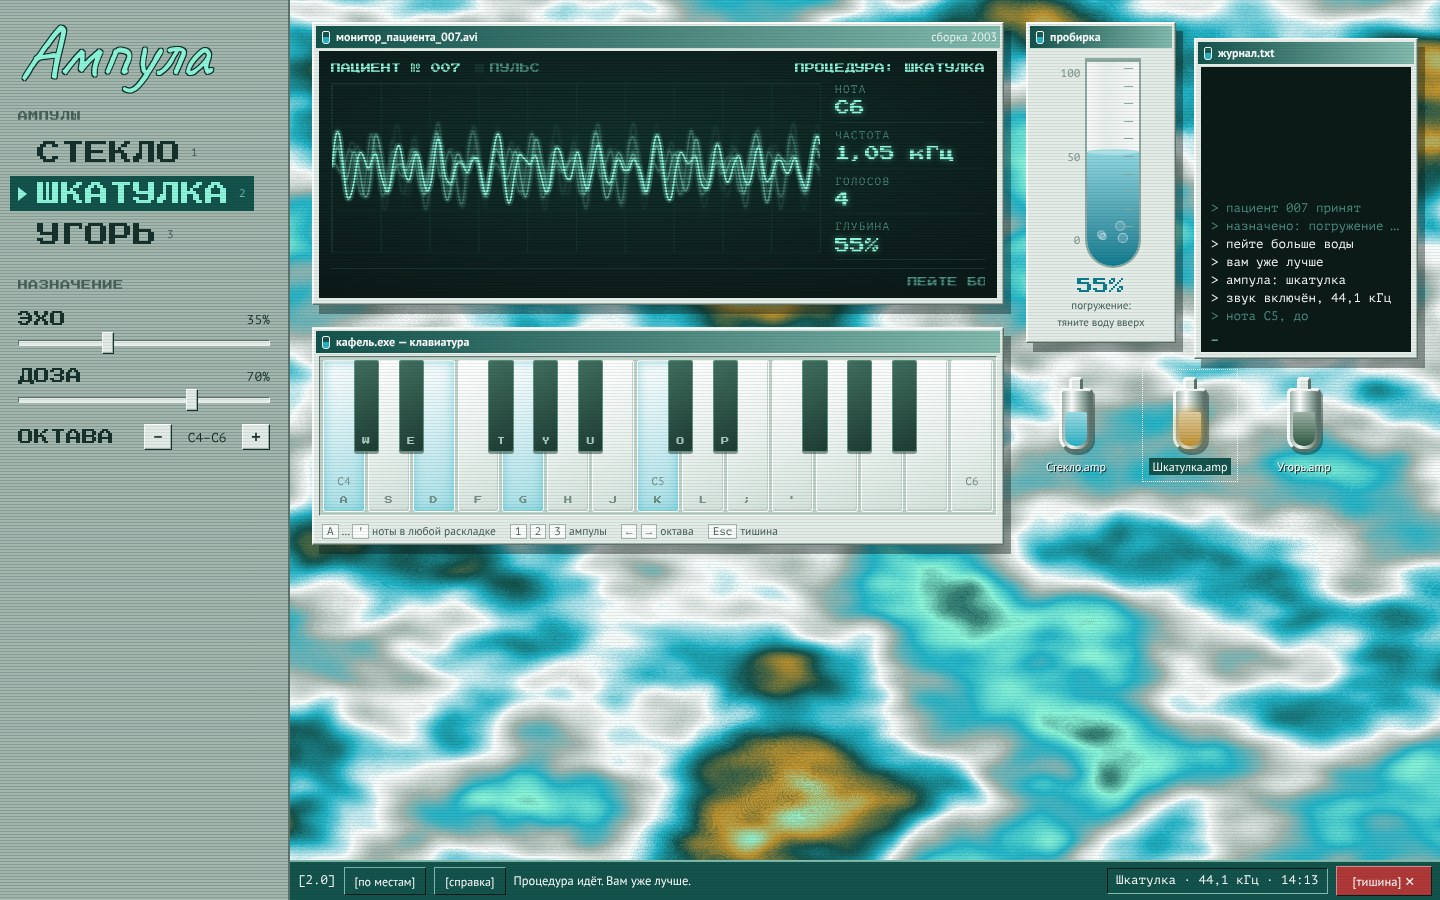
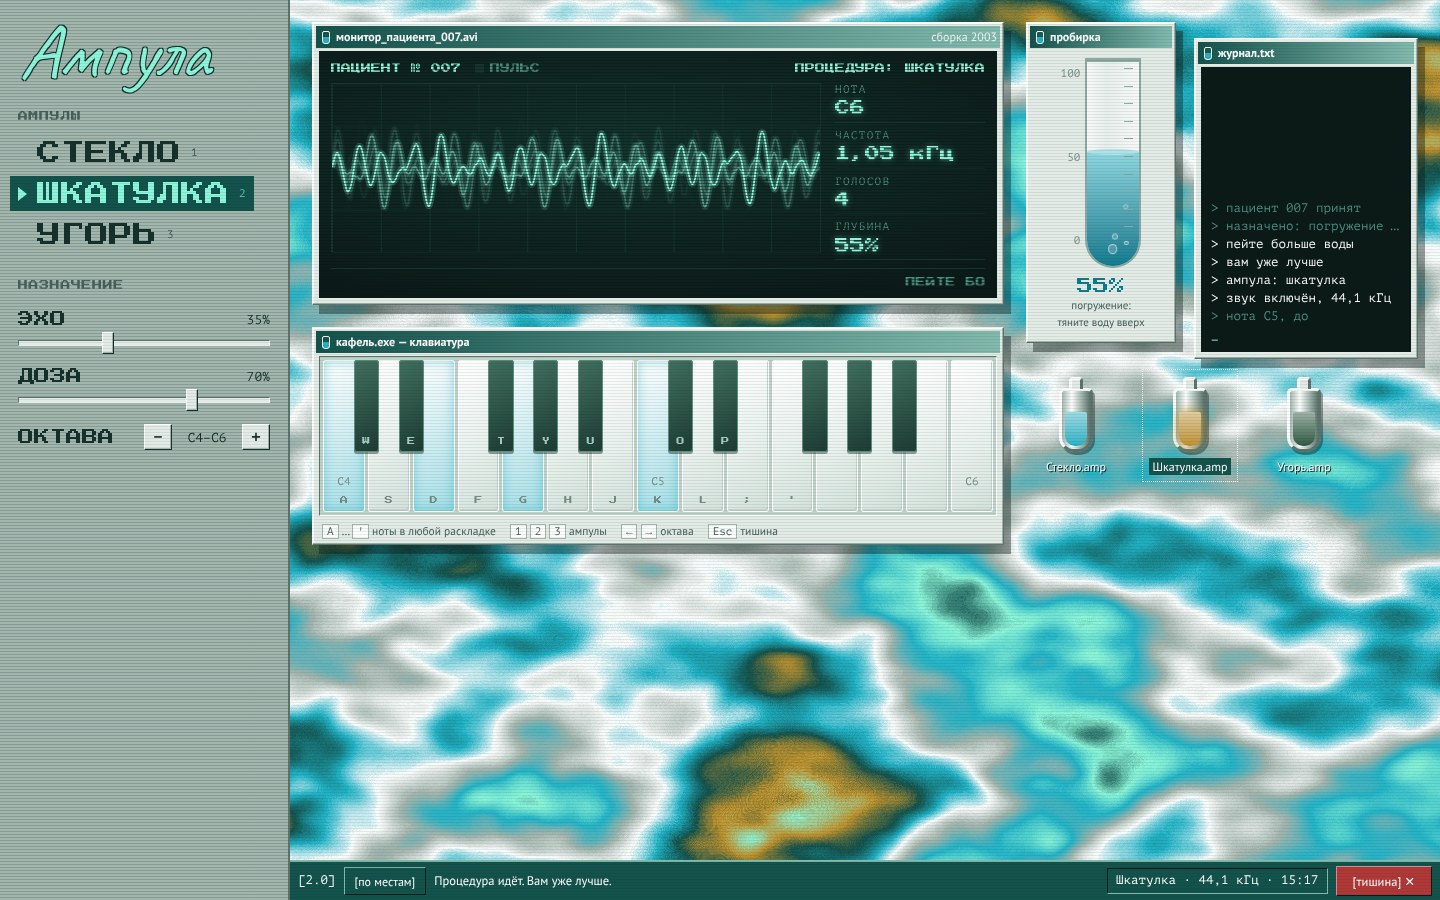
Add files via upload

diff --git a/stylesheets/style.css b/stylesheets/style.css
@@ -156,9 +156,9 @@ input[type=range]::-moz-range-thumb{width:12px;height:22px;border-radius:0;backg
 
 .icons{display:flex;gap:18px;padding:4px 2px 0}
 .icon{position:relative;touch-action:none;display:flex;flex-direction:column;align-items:center;gap:6px;width:96px;padding:6px 2px;background:transparent;border:1px dotted transparent;cursor:pointer}
-.vial{position:relative;width:34px;height:64px;margin-top:12px;border:3px solid;border-color:var(--face-hi) var(--face-dk) var(--face-dk) var(--face-hi);border-radius:5px 5px 15px 15px;background:linear-gradient(90deg,var(--face-lo),var(--face-hi) 35%,var(--face-lo) 70%,var(--face-dk));box-shadow:2px 3px 0 var(--shadow)}
-.vial::before{content:"";position:absolute;left:50%;top:-14px;width:14px;height:12px;margin-left:-7px;border:3px solid;border-bottom:0;border-color:var(--face-hi) var(--face-dk) transparent var(--face-hi);border-radius:4px 4px 0 0;background:var(--face)}
-.liq{position:absolute;left:3px;right:3px;bottom:3px;height:58%;border-radius:2px 2px 10px 10px;background:linear-gradient(180deg,color-mix(in srgb,var(--c) 45%,var(--face-hi)),var(--c))}
+.icon .vial{position:relative;width:34px;height:64px;margin-top:12px;border:3px solid;border-color:var(--face-hi) var(--face-dk) var(--face-dk) var(--face-hi);border-radius:5px 5px 15px 15px;background:linear-gradient(90deg,var(--face-lo),var(--face-hi) 35%,var(--face-lo) 70%,var(--face-dk));box-shadow:2px 3px 0 var(--shadow)}
+.icon .vial::before{content:"";position:absolute;left:50%;top:-14px;width:14px;height:12px;margin-left:-7px;border:3px solid;border-bottom:0;border-color:var(--face-hi) var(--face-dk) transparent var(--face-hi);border-radius:4px 4px 0 0;background:var(--face)}
+.icon .liq{position:absolute;left:3px;right:3px;bottom:3px;height:58%;border-radius:2px 2px 10px 10px;background:linear-gradient(180deg,color-mix(in srgb,var(--c) 45%,var(--face-hi)),var(--c))}
 .icon .lbl{padding:1px 4px;font-size:12px;line-height:1.25;color:var(--title-ink);text-shadow:1px 1px 0 var(--screen);text-align:center}
 .icon[aria-pressed="true"] .lbl{background:var(--title-a);text-shadow:none}
 .icon[aria-pressed="true"]{border-color:var(--face-hi)}
@@ -221,53 +221,4 @@ body.dragging{cursor:move;-webkit-user-select:none;user-select:none}
   .term::after{animation:none}
   .bubble{display:none}
   *,*::before,*::after{transition:none!important}
-}
-
-a.logo-hand,a.vbtn,a.tb-btn,a.tb-x,a.btn{text-decoration:none}
-a.tb-btn{display:inline-flex;align-items:center}
-@media (max-width:560px){.tb-ver{display:none}}
-
-.pages .vbtn{font-size:20px}
-.vbtn[aria-current="page"]{background:var(--title-a);color:var(--phos)}
-.vbtn[aria-current="page"]::before{border-left-color:var(--phos)}
-.toc a{font:13px/1.5 var(--f-mono);color:var(--ink);text-decoration:none}
-.toc a::before{content:"> ";color:var(--ink-2)}
-.toc a:hover{color:var(--title-a);text-decoration:underline}
-
-.page{flex:1 0 auto;padding:22px 22px 26px}
-.w-help{max-width:880px}
-.w-help .tb{cursor:default;touch-action:auto}
-.help{margin:3px;padding:22px 26px 24px;background:var(--face-hi);border:1px solid;border-color:var(--face-dk) var(--face-hi) var(--face-hi) var(--face-dk);font:14px/1.55 var(--f-ui);color:var(--ink)}
-.help-kicker{margin:0 0 10px;font:400 10px/1.4 var(--f-pix);letter-spacing:.06em;color:var(--ink-2)}
-.help h1{margin:0 0 10px;font:700 26px/1.2 var(--f-ui);color:var(--title-a)}
-.help .lead{margin:0;font-size:16px}
-.help section{margin-top:20px;padding-top:18px;border-top:1px dashed var(--face-lo);scroll-margin-top:16px}
-.help h2{margin:0 0 10px;font:400 13px/1.4 var(--f-pix);color:var(--title-a)}
-.help p{margin:0 0 8px}
-.help kbd{font:12px var(--f-mono);padding:0 4px;border:1px solid var(--face-lo);background:var(--face)}
-.chain{list-style:none;margin:12px 0 0;padding:0}
-.chain li{position:relative;padding:8px 12px;background:var(--screen);color:var(--phos);font:13px/1.4 var(--f-mono)}
-.chain li+li{margin-top:24px}
-.chain li+li::before{content:"↓";position:absolute;left:12px;top:-23px;color:var(--title-a);font:700 15px/22px var(--f-mono)}
-.keys-list{display:grid;grid-template-columns:max-content minmax(0,1fr);gap:8px 20px;margin:0}
-.keys-list dt{font-weight:700}
-.keys-list dd{margin:0}
-.voices{display:grid;grid-template-columns:repeat(3,minmax(0,1fr));gap:14px;margin:4px 0 12px}
-.voice{display:grid;grid-template-columns:auto minmax(0,1fr);align-items:end;gap:12px 14px;padding:12px 14px 14px;background:var(--face);border:1px solid;border-color:var(--face-hi) var(--face-dk) var(--face-dk) var(--face-hi)}
-.voice h3{margin:0;font:400 13px/1.4 var(--f-pix);color:var(--ink)}
-.voice .role{display:block;margin-top:4px;font:12px/1.3 var(--f-mono);color:var(--ink-2)}
-.voice p{grid-column:1/-1;margin:0;font-size:13.5px;line-height:1.45}
-.help .note{color:var(--ink-2)}
-.help-foot{display:flex;justify-content:flex-end;margin-top:24px}
-@media (max-width:900px){.page{padding:16px 16px 22px}}
-@media (max-width:760px){.voices{grid-template-columns:minmax(0,1fr)}.voice{grid-template-columns:auto minmax(0,1fr)}}
-@media (max-width:560px){
-  .toc{display:none}
-  .pages .vbtn{font-size:12px}
-  .help{padding:16px 14px 18px}
-  .help h1{font-size:22px}
-  .keys-list{grid-template-columns:minmax(0,1fr);gap:2px}
-  .keys-list dd{margin-bottom:10px}
-  .help-foot{justify-content:stretch}
-  .help-foot .btn{flex:1;min-height:36px}
 }

diff --git a/index.html b/index.html
@@ -113,7 +113,6 @@
     <footer class="taskbar">
       <span class="tb-ver">[2.0]</span>
       <button type="button" class="tb-btn" id="arrange" title="Вернуть окна и значки на свои места">[по местам]</button>
-      <a class="tb-btn" id="help" href="about.html" title="Справка: идея, управление, голоса">[справка]</a>
       <span class="tb-status" id="tbStatus">Готово. Нажмите клавишу, чтобы начать процедуру</span>
       <span class="tb-tray"><span id="tbVoice">Стекло</span> · <span id="tbRate">звук выкл.</span> · <span id="tbClock">--:--</span></span>
       <button type="button" class="tb-red" id="panic" title="Заглушить все ноты (Esc)">[тишина] ✕</button>

diff --git a/javascripts/desktop.js b/javascripts/desktop.js
@@ -81,7 +81,7 @@ function stopEverything() {
 $('#panic').addEventListener('click', stopEverything);
 
 document.addEventListener('pointerdown', e => {
-  if (!(e.target.closest && e.target.closest('.tb, .icon, #arrange, #help'))) startAudio();
+  if (!(e.target.closest && e.target.closest('.tb, .icon, #arrange'))) startAudio();
 }, true);
 document.addEventListener('touchend', () => { if (engine && engine.ctx.state !== 'running') engine.ctx.resume().catch(() => {}); }, { passive: true });
 document.addEventListener('mousedown', e => { if (e.target.closest && e.target.closest('button, .tube')) e.preventDefault(); });

diff --git a/README.md b/README.md
@@ -17,9 +17,8 @@
 
 ```
 ├── index.html          синтезатор
-├── about.html          справка: идея, управление, голоса
 ├── stylesheets/
-│   └── style.css       оформление обеих страниц
+│   └── style.css       оформление: окна, клавиши, пробирка, цвета и шрифты
 ├── javascripts/
 │   ├── engine.js       звук: голоса, огибающие, вода, эхо, лимитер
 │   ├── interface.js    клавиши, ампулы, пробирка, ползунки, монитор, журнал
@@ -52,7 +51,6 @@
 | Эхо коридора, доза | ползунки |
 | Заглушить всё | `Esc` или красная кнопка «[тишина]» на панели задач |
 | Двигать окна и значки | тянуть окно за заголовок, значок — за него самого; «[по местам]» на панели задач возвращает всё обратно |
-| Справка | кнопка «[справка]» на панели задач открывает `about.html` |
 
 ## Голоса
 
